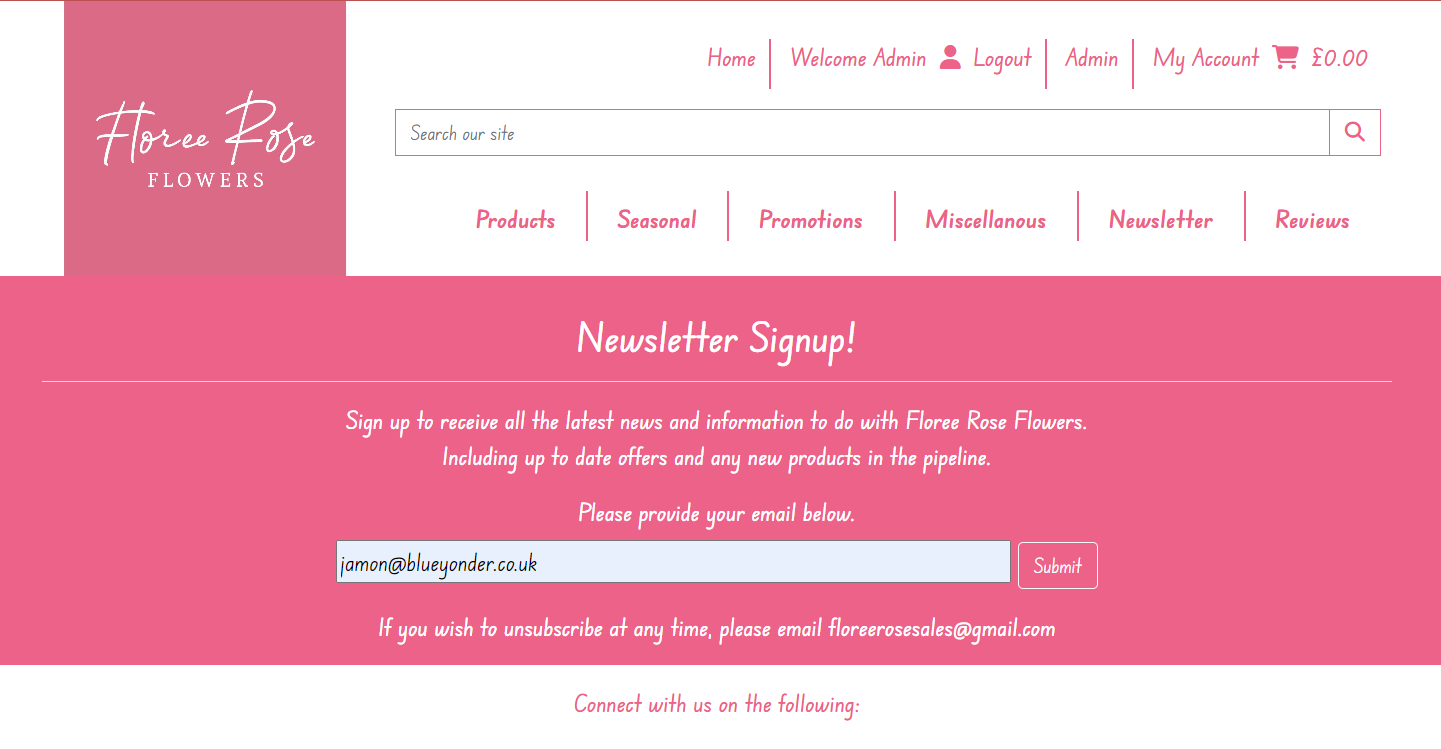
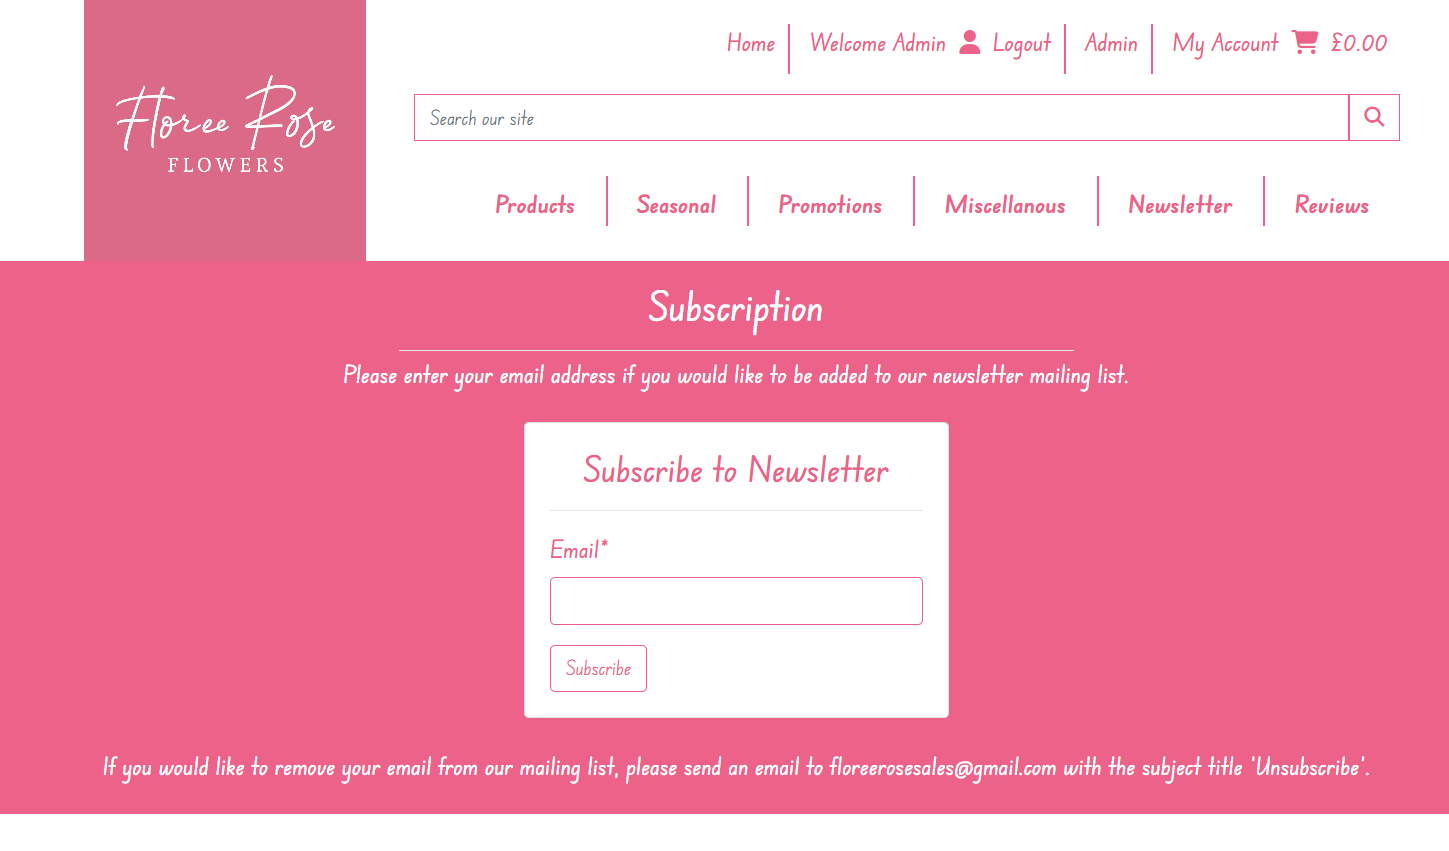
changed duplicated labels and updated readme

diff --git a/templates/includes/main-nav.html b/templates/includes/main-nav.html
@@ -113,15 +113,15 @@
                             <button class="navbar-toggler" type="button" data-toggle="collapse" data-target="#main-nav" aria-controls="main-nav" aria-expanded="false" aria-label="Toggle navigation">
                                 <span class="navbar-toggler-icon"></span>
                             </button>
-                            <div class="collapse navbar-collapse" id="main-nav">
+                            <div class="collapse navbar-collapse" id="main-nav-main">
                                 <ul class="navbar-nav w-auto mx-auto">
                                     <li class="d-block nav-item d-md-none">
-                                        <a class="logo-font font-weight-bold nav-link mr-5" href="{% url 'home' %}" id="home-link">
+                                        <a class="logo-font font-weight-bold nav-link mr-5" href="{% url 'home' %}" id="home-link-main">
                                             Home
                                         </a>
                                     </li>
                                     <li class="nav-item dropdown vl">
-                                        <a class="logo-font font-weight-bold nav-link mr-3" href="#" id="all-products-link" data-toggle="dropdown" aria-haspopup="true" aria-expanded="false">
+                                        <a class="logo-font font-weight-bold nav-link mr-3" href="#" id="all-products-link-main" data-toggle="dropdown" aria-haspopup="true" aria-expanded="false">
                                             Products
                                         </a>
                                         <div class="dropdown-menu border-0" aria-labelledby="all-products-link">
@@ -135,7 +135,7 @@
                                         &nbsp;
                                     </li>
                                     <li class="nav-item dropdown vl">
-                                        <a class="logo-font font-weight-bold nav-link mr-3" href="#" id="seasonal-link" data-toggle="dropdown" aria-haspopup="true" aria-expanded="false">
+                                        <a class="logo-font font-weight-bold nav-link mr-3" href="#" id="seasonal-link-main" data-toggle="dropdown" aria-haspopup="true" aria-expanded="false">
                                             Seasonal
                                         </a>
                                         <div class="dropdown-menu border-0" aria-labelledby="seasonal-link">
@@ -149,7 +149,7 @@
                                         &nbsp;
                                     </li>
                                     <li class="nav-item dropdown vl">
-                                        <a class="logo-font font-weight-bold nav-link mr-3" href="#" id="clearance-link" data-toggle="dropdown" aria-haspopup="true" aria-expanded="false">
+                                        <a class="logo-font font-weight-bold nav-link mr-3" href="#" id="clearance-link-main" data-toggle="dropdown" aria-haspopup="true" aria-expanded="false">
                                             Promotions
                                         </a>
                                         <div class="dropdown-menu border-0" aria-labelledby="clearance-link">
@@ -162,7 +162,7 @@
                                         &nbsp;
                                     </li>
                                     <li class="nav-item dropdown vl">
-                                        <a class="font-weight-bold nav-link mr-3" href="#" id="misc-link" data-toggle="dropdown" aria-haspopup="true" aria-expanded="false">
+                                        <a class="font-weight-bold nav-link mr-3" href="#" id="misc-link-main" data-toggle="dropdown" aria-haspopup="true" aria-expanded="false">
                                             Miscellanous
                                         </a>
                                         <div class="dropdown-menu border-0" aria-labelledby="misc-link">
@@ -175,10 +175,10 @@
                                         &nbsp;
                                     </li>
                                     <li class="nav-item dropdown vl">
-                                        <a class="font-weight-bold nav-link mr-3" href="#" id="misc-link" data-toggle="dropdown" aria-haspopup="true" aria-expanded="false">
+                                        <a class="font-weight-bold nav-link mr-3" href="#" id="newsletter-link-main" data-toggle="dropdown" aria-haspopup="true" aria-expanded="false">
                                             Newsletter
                                         </a>
-                                        <div class="dropdown-menu border-0" aria-labelledby="misc-link">
+                                        <div class="dropdown-menu border-0" aria-labelledby="newsletter-link">
                                             <a href="{% url 'subscribe' %}" class="dropdown-item">Subscribe</a>
                                             {% if user.is_superuser %}
                                                 <a href="{% url 'newsletter' %}" class="dropdown-item">Newsletter</a>

diff --git a/marketing/migrations/0002_alter_subscribers_options.py b/marketing/migrations/0002_alter_subscribers_options.py
@@ -1,0 +1,17 @@
+# Generated by Django 3.2 on 2023-03-22 21:37
+
+from django.db import migrations
+
+
+class Migration(migrations.Migration):
+
+    dependencies = [
+        ('marketing', '0001_initial'),
+    ]
+
+    operations = [
+        migrations.AlterModelOptions(
+            name='subscribers',
+            options={'verbose_name_plural': 'Subscribers'},
+        ),
+    ]

diff --git a/README.md b/README.md
@@ -32,9 +32,9 @@ Allows the Floree Rose Flowers to delete stock that is no longer available, allo
 ![Database Schema](/media/readme/databaseschema.png)
 
 # Agile
-Project has been worked through with User Stories in an Agile method. Below is the spreadsheet that was used to track all the important parts of the project that were required to be completed. Along with this, the date of acheivement and the commit that links to this has been recorded.
+Project has been worked through with User Stories in an Agile method. Using Github's projects, User issues were created to work through. These issues we given a story points (8, 6, 4 or 2), Stories were then split over iterations, with each iteration having a total of 20 story points. This allowed us to focus on the key stories to develop, show progress to the site owner through each iteration. Link to the project is below.
 
-[User Stories](/media/readme/User%2520Stories.xls_0.ods)
+[User Stories](https://github.com/users/benamos216/projects/4)
 
 # Wireframes
 General mockup of how the site will look on both desktop and mobile. Using the colour scheme from the main logo as inspiration for the overall look of both displays. Trying to keep simple and clean, so an easy to navigate experience for the user. Desktop view will be able to display multiple items across the page, whereas mobile it will be stacked on top of one another.
@@ -162,10 +162,10 @@ If the user has previously made an order, they can access these through the prof
 ![Order History](/media/readme/order-history.png)
 
 ### Newsletter
-If the user would like to keep up to date with all of the latest news from Floree Rose Flowers, they are able to signup to the newsletter subscription. This is linked to Mailchimp, which will store the email for Floree Rose Flowers to then bulk email its users with their newsletter. This allows the user to decide if they want their details stored and they are advised how to remove their email from the database.
+If the user would like to keep up to date with all of the latest news from Floree Rose Flowers, they are able to signup to the newsletter subscription. This stores their email address to the database. When an admin user signs in, they can then send a newsletter to all users that have been added, with a title and message body. Once sent, it goes through to all email addresses stored within the database. The newsletter is also stored for possible future use. Users can opt out currently by emailing 'Unsubscribe' to the email address listed.
 
 ![Newsletter - signup](/media/readme/Newsletter-signup.png)
-![Newsletter - mailchimp](/media/readme/mailchimp.png)
+![Newsletter - Newsletter](/media/readme/newsletter-newsletter.png)
 
 ### Reviews
 Users are able to leave feedback on their experience with Floree Rose Flowers. The user fills in the form, which is then sent for approval from the Admin team. If approved, the review will then be displayed showing the review and who left the review. At present approval for reviews are made through the admin panel. Reviews have to be approved, as it allows Floree Rose Flowers to monitor and remove any malicious reviews before they are posted.
@@ -196,8 +196,8 @@ Future features that could be implemented to improve user/admin experience.
 - ### Front End Review Approval
     Allow the SuperUser to approve any reviews from the frontend, meaning they don't have to navigate through the Admin panel to approve each and every reveiw/
 
-- ### Integrated Newsletter signup
-    Have opt in for newsletter integrated with the user signup form. This would help capture more users for marketing, than relying on the user to signup.
+- ### Newsletter updates
+    Have opt in for newsletter integrated with the user signup form. This would help capture more users for marketing, than relying on the user to signup. Allow the user to unsubscribe themselves with a simple click of button on site. Give the site owner/admin more editing options within the newsletter itself, including adding media to the newsletters themselves.
 
 - ### Front End Rating
     At present, ratings are manually entered for each product. Give the users the ability to rate each item through the front end of the site, will not only show Floree Rose Flowers the items that their users like the most and show them what items they are rating the most.
@@ -210,7 +210,7 @@ Upon deployment, there were no known bugs, however there was some issues during 
 
     - Checkout Success - Page didn't load onto the checkout success page upon payment, redirected the user straight back to the checkout page with items still in their basket. Issue with the webhooks with Stripe payments. Reworked along with Code Institutes Boutique Ado to ensure they were working correctly.
 
-    - 
+    - Tried to reimplement the Newsletter function with a third party app, Twilio Sendgrid. Had issues communicating through the API, believe it may have been due to account limitations with Twilio itself, blocking communication for website to API. Removed and built basic in website newsletter functions.
 
 # Deployment
 Site has been deployed to Heroku to host the site and display it. For the site to function properly, upon deployment several actions were taken to ensure all was working correctly.
@@ -225,8 +225,6 @@ We also linked up our github repository to Heroku, so that any changes that are 
 
 Within settings.py Debug was set to false, and If statements were formed for database, static and media files so that if we are in development (Gitpod), only development settings would be used, otherwise live environments are used. This allows for changes to be made and checked without affecting the live site until needed. If changes are made, they are push through gitpod, and with Heroku on automatic deployment, it will load straight to the live site.
 
-
-
 # Credits
 - Inspired by Code Institutes Boutique Ado.
 
@@ -235,3 +233,8 @@ Within settings.py Debug was set to false, and If statements were formed for dat
 - www.djangoproject.com for guidance with libraries, frameworks etc.
 
 - www.stackoverflow.com for further guidance and support with any issues.
+
+# Changes Made
+- Newsletter reworked. Now has a model for both Subscribers (email and date) and the Newsletter (title and message) itself. Instead of using third party app through it's API, the site owner can now manage subscribers and send newsletter through the site itself.
+
+- AGILE methodology.
